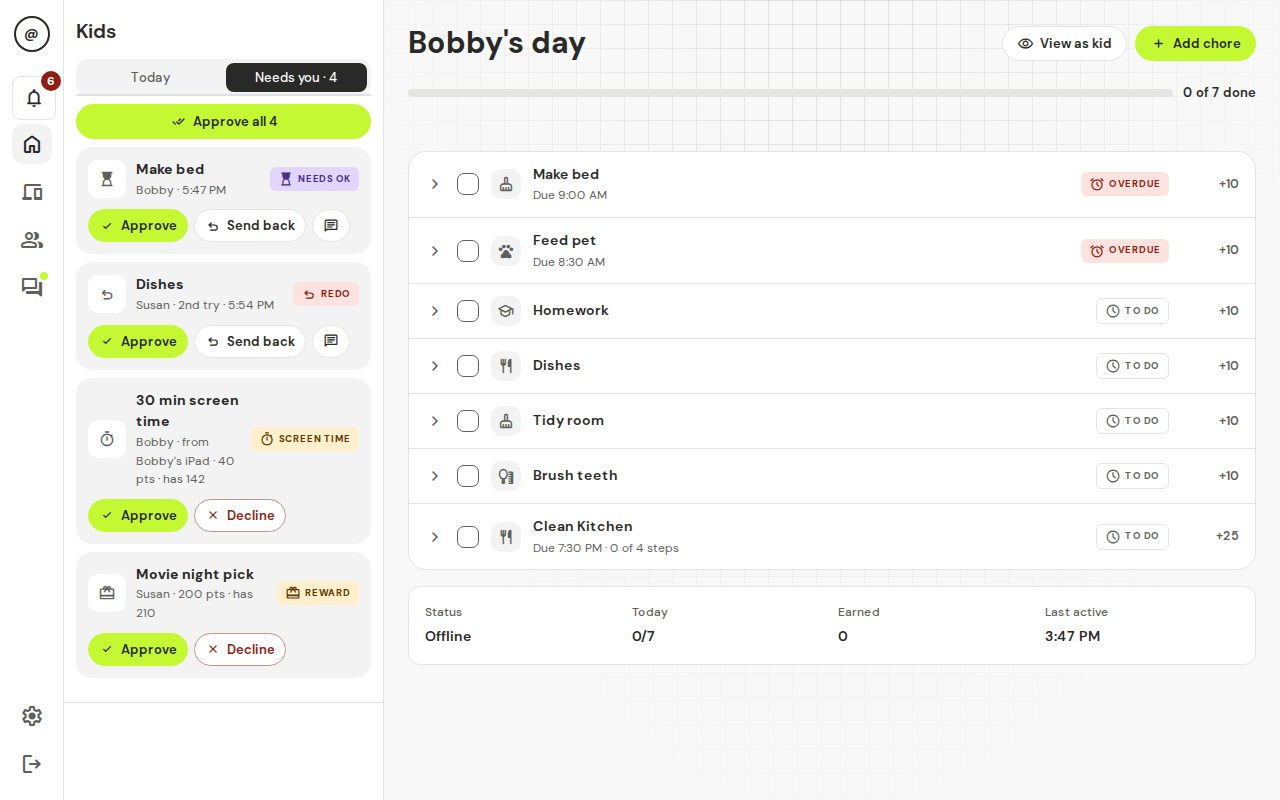
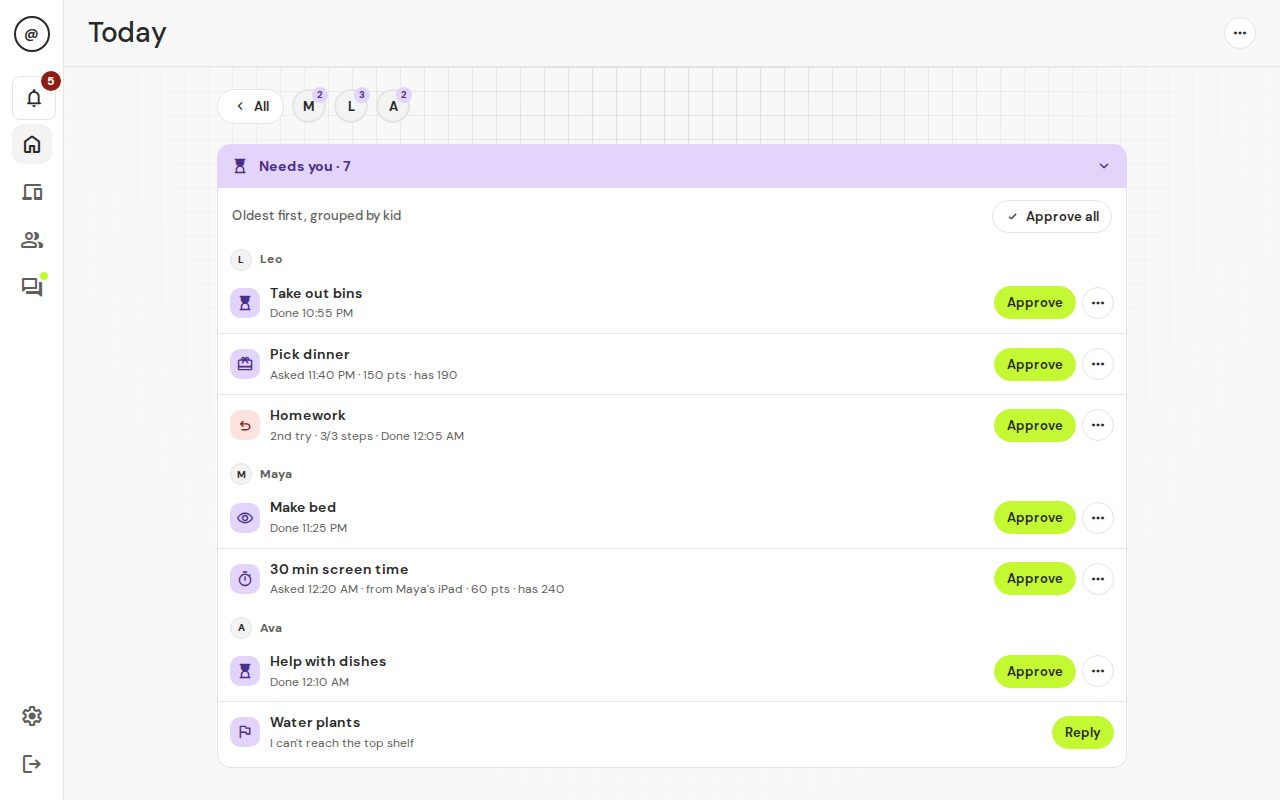
docs(guide): calm parent screens, new screenshots
Claude-Session: https://claude.ai/code/session_011K7jrVbDK9XkJbLGVTb23M

diff --git a/site/index.html b/site/index.html
@@ -38,8 +38,8 @@
           </div>
         </div>
         <figure class="hero-shots">
-          <img class="shot-desk" src="img/today-hero.jpg" width="1280" height="800" alt="The parent Today screen: Bobby's chores with overdue and to-do chips, and a card for each kid.">
-          <img class="shot-phone" src="img/today-parent.jpg" width="600" height="1298" alt="The parent Today screen on a phone." loading="lazy">
+          <img class="shot-desk" src="img/today-hero.jpg" width="1280" height="800" alt="The calm parent Today screen: a Needs you bar, one card for each kid with points and what is waiting, and a Devices line.">
+          <img class="shot-phone" src="img/today-parent.jpg" width="600" height="1298" alt="The calm parent Today screen on a phone: a Needs you bar and a card for each kid." loading="lazy">
           <figcaption class="p-sub">A real family's chores and approvals, in the app.</figcaption>
         </figure>
       </section>
@@ -95,11 +95,11 @@
         </div>
         <div class="shots">
           <figure class="f-card shot shot-dup">
-            <img src="img/today-parent.jpg" width="600" height="1298" loading="lazy" alt="The parent Today screen on a phone: a row of kids, progress, points, streak and the chore list.">
+            <img src="img/today-parent.jpg" width="600" height="1298" loading="lazy" alt="The calm parent Today screen on a phone: a Needs you bar, then a card for each kid with progress, points and what is waiting.">
             <figcaption><h3>Today</h3><p>See each kid's day at a glance: what's done, what's waiting and what's overdue.</p></figcaption>
           </figure>
           <figure class="f-card shot">
-            <img src="img/needs-you.jpg" width="600" height="1298" loading="lazy" alt="The Needs you tab on a phone: a chore to approve, a redo, a screen time request and a reward request, each with Approve.">
+            <img src="img/needs-you.jpg" width="600" height="1298" loading="lazy" alt="Needs you on a phone, grouped by kid: chores, a redo, a screen time request and a reward request, each with one Approve button and a menu for the rest.">
             <figcaption><h3>Needs you</h3><p>One list for everything waiting: chores, redos, screen time and reward requests. Approve them one by one or all at once.</p></figcaption>
           </figure>
         </div>

diff --git a/docs/guide/04-everyday-use.md b/docs/guide/04-everyday-use.md
@@ -11,17 +11,21 @@ A dot on **Chat** means there are unread messages.
 
 This is the page you will use most.
 
-![Today on a computer: kid cards on the left, the chosen kid's day on the right](img/today.jpg)
+![Today on a computer: Needs you, a card for each kid and Devices](img/today.jpg)
 
-Pick a kid to see their day: how many chores are done, their points, streak, next reward and when their devices lock. Each chore has a chip: **To do**, **Overdue**, **Needs OK**, **Redo**, **Approved** or **Skipped**. Tap a chore to open it. There you can approve it, send it back, mark it done yourself, open its chat or take points away (**Deduct points**).
+Today starts calm: a **Needs you** bar when something is waiting, one card for each kid, and a **Devices** line. Nothing else is on screen until you ask for it. A Happy Hour that is running shows as a small chip at the top. To start one, tap the **…** at the top right of Today and choose **Start Happy Hour** (see [Happy Hour](#happy-hour)).
+
+![One kid's day: chores on the left, requests on the right](img/today-kid.jpg)
+
+Tap a kid to see their day: how many chores are done, their points, streak and their chores. Tap **All** to go back. Each chore has a chip: **To do**, **Overdue**, **Needs OK**, **Redo**, **Approved** or **Skipped**. Tap a chore to open it. There you can approve it, send it back, mark it done yourself, open its chat or take points away (**Deduct points**).
 
 **View as kid** shows you exactly what that kid sees. **Add chore** makes a new chore for them.
 
 ## Needs you
 
-**Needs you** is the list of everything waiting for your decision, from all kids. On a phone it is the second tab at the top of Today. On a computer it is the second tab above the kid cards.
+**Needs you** is the list of everything waiting for your decision, from all kids. Tap the **Needs you** bar at the top of Today to open it. It is grouped by kid, oldest first. Each row has one main button, like **Approve**. The less common answers (**Send back**, **Decline**, **Reply**) are in the row's **…** menu.
 
-![The Needs you list: a chore, a redo, a screen time request and a reward request](img/needs-you.jpg)
+![The Needs you list, grouped by kid: chores, a redo, a screen time request, a reward request and a note](img/needs-you.jpg)
 
 - **Needs OK**: a kid says a chore is done.
 - **Redo**: a chore you sent back, done again ("2nd try").
@@ -37,7 +41,7 @@ A chore a kid finished stays here until you answer it, even after the daily rese
 ### Approve a chore or send it back
 
 1. Find the chore in **Needs you**. If the kid added a photo, tap it to see it larger.
-2. Tap **Approve**, or tap **Send back**.
+2. Tap **Approve**, or tap the row's **…** and choose **Send back**.
 3. If you send it back, type a short note, like "The sink still has dishes." You can't send it back without a note.
 
 You should see: for Approve, the item disappears and the kid gets their points (and the internet, if that was their last chore). For Send back, the kid sees your note and does the chore again.
@@ -46,13 +50,13 @@ Points come to the kid when you approve, not before. If a kid finishes early, th
 
 ### Answer a screen time or reward request
 
-Tap **Approve** or **Decline**. The points are only taken when you approve. A declined or ignored request costs nothing.
+Tap **Approve**, or tap the row's **…** and choose **Decline**. The points are only taken when you approve. A declined or ignored request costs nothing.
 
 You should see: the item leaves the list. The kid is told what you decided.
 
 ## The bell
 
-The bell shows what happened: chores to approve, kid notes, requests, new devices (not during setup), badges and level-ups, and security alerts such as a device that "got around the lock", "may be a different device", a "tried a VPN" workaround, or someone guessing a parent's password. Use the **All**, **Needs you** and **Alerts** tabs to filter. You can approve or send back right from the bell. Tap an item to go straight to it. **Mark all read** clears the count.
+The bell shows what happened: chores to approve, kid notes, requests, new devices (not during setup), badges and level-ups, and security alerts such as a device that "got around the lock", "may be a different device", a "tried a VPN" workaround, or someone guessing a parent's password. Use the **All**, **Needs you** and **Alerts** tabs to filter. You can approve right from the bell. Each row has one main button, and **Send back**, **Decline** and **Dismiss** are in its **…** menu. Tap an item to go straight to it. **Mark all read** clears the count.
 
 On a phone the bell opens as a sheet from the bottom of the screen.
 
@@ -62,15 +66,17 @@ On a phone the bell opens as a sheet from the bottom of the screen.
 
 ### Make a chore once, use it many times
 
+A chore is a few short rows. Open a row to change it.
+
 1. Tap **Kids & chores**, then **Chores**, then **New chore**.
-2. Type a **Chore name** and the number of **Points**. Pick a type, like Kitchen or Schoolwork.
-3. Add **steps** if you like (for example "Rinse", "Load", "Wipe"). Each step can have its own due time. Tap **Any order** under a step to make it **Must be done after the step above**. The kid can't say a chore is done until every step is ticked.
-4. Turn on **Needs a photo** if the kid must show proof. Turn on **Always check** if you always want to look at this chore yourself, even for a kid in trust mode.
+2. In **Basics**, type a **Chore name** and the number of **Points**. Pick a type, like Kitchen or Schoolwork.
+3. In **Steps**, add steps if you like (for example "Rinse", "Load", "Wipe"). Each step can have its own due time. Tap **Any order** under a step to make it **Must be done after the step above**. The kid can't say a chore is done until every step is ticked.
+4. In **Options**, turn on **Needs a photo** if the kid must show proof. Turn on **Always check** if you always want to look at this chore yourself, even for a kid in trust mode. **Due by** is here too.
 5. Tap **Save chore**.
 
 You should see: "Added. Now choose who does it."
 
-Now, under **Who & when**:
+Now, in **Who & when**:
 
 1. Pick who does it (one or more kids).
 2. If you picked several kids, choose how it works:
@@ -78,8 +84,7 @@ Now, under **Who & when**:
    - **First one wins**: one chore for everyone. The first kid to finish it gets the points.
    - **Team effort**: one chore for everyone. Any kid can tick it, and the points are split evenly.
 3. Choose **Repeat**: **Every day**, **Some days** (pick the days) or **One time** (pick the date).
-4. Optionally set **Due by**.
-5. Tap **Save chore**.
+4. Tap **Save chore**.
 
 You should see: the chore in the list with the kids' avatars. It appears on Today at your daily reset time (6:00 am unless you changed it in **Settings → Family**).
 
@@ -87,9 +92,9 @@ If you change a chore's name, points or steps, the change shows up everywhere, i
 
 ### Kids
 
-Open a kid to see their devices, chores and points history. The buttons at the top:
+Open a kid to see a short page: their points, level and a few rows (**Trust**, **Devices**, **Chores**, **Settings**). Open a row to see more. Tap the **points chip** to see their points history. The buttons at the top:
 
-- **Start Happy Hour**, **Edit** and a **More** (three dots) menu.
+- **Edit** and a **More** (three dots) menu. Happy Hour now starts from the **…** on Today.
 - **Edit**: change their name, avatar, PIN or **Age group** (Little, Kid or Teen).
 - **More** holds **Bonus** (give 1 to 500 points with a short note; they get a celebration), **Deduct** (take points away, with a reason the kid can see) and, on a phone, **View as kid**. On a computer **View as kid** is its own button.
 
@@ -100,7 +105,7 @@ Open **Kids & chores → Rewards**. It has four parts:
 - **Requests**: what kids are asking for.
 - **Catalogue**: tap **New reward** for things kids can save up for, with a price in points and an icon. Turn off **Needs approval** if a kid can just take it (the points come off right away and you get a ping). Turn off **Kids can see it** to hide it for now.
 - **Screen time**: lets kids spend points on extra internet time. It is on for new families (**Kids can buy extra minutes**), and every purchase still needs your OK. The price starts at 20 points for 15 minutes. Turn the switch off and the price, **Max per day**, **Save unused time**, **Save up to**, **Approve automatically** and **Only during allowed hours** settings are hidden until you turn it on again; what you saved is kept. Bought minutes never work during off hours like bedtime.
-- **History**: the last 30 days.
+- **History**: the last 30 days. A chip at the top shows the totals. Pick a kid to filter, and switch between **All**, **Rewards** and **Screen time**. **Export CSV** is the button in the header.
 
 A kid sees a progress bar toward each reward and can ask when they have enough.
 
@@ -140,12 +145,12 @@ When a kid finishes a chore, a comic-book moment pops up on their screen: a rand
 ![A celebration on a kid's phone: a cowboy dog, a coin burst and the word YEEHAW](img/celebrate.jpg)
 
 - **Levels** are **Full**, **Small** and **Off**, or **Mode default** (which means Small for teens, Full for the others).
-- Set the level for each kid on the kid's page, under **Celebrations**. **Preview a celebration** plays one so you can see it.
+- Set the level for each kid on the kid's page, in the **Settings** row, under **Celebrations**. **Preview a celebration** plays one so you can see it.
 - Phones and tablets set to reduce motion get a still badge instead.
 
 ### Happy Hour
 
-A Happy Hour gives bonus points for a little while. Tap **Start Happy Hour** on **Today** or on a kid's page. Pick 30, 60 or 90 minutes and **×1.5**, **×2** or **×3**, for all kids or only the kids you choose.
+A Happy Hour gives bonus points for a little while. Tap the **…** at the top right of **Today** and choose **Start Happy Hour**. Pick 30, 60 or 90 minutes and **×1.5**, **×2** or **×3**, for all kids or only the kids you choose.
 
 ![The Start Happy Hour sheet: length, multiplier and kids](img/happy-hour-start.jpg)
 
@@ -222,9 +227,9 @@ Every Sunday at 7:30 PM you get "Your week at (your family)" in your inbox, plus
 ### Where the settings live
 
 - **Kids & chores → the kid → Trust mode**, and **Always check** on each chore.
-- **Settings → Family → Extras**: **Bedtime auto-approve** (with its time) and **Weekly recap**.
+- **Settings → Family → Bedtime & recap**: **Bedtime auto-approve** (with its time) and **Weekly recap**.
 
-![The Extras card in Settings](img/extras.jpg)
+![Bedtime & recap in Settings → Family](img/extras.jpg)
 
 ### "Try this" cards
 
@@ -234,7 +239,7 @@ Two more cards on **Today**: one offers trust mode for a kid after 10 approved c
 
 ![The Devices page with one device open](img/devices.jpg)
 
-**Devices** lists every device the box has seen, grouped by owner: **Who's this?** (new devices), one group for each kid, **Shared**, **Guests** and **No owner**. New devices stay online until you give them an owner. To pause them until you do, turn on **Block new devices until I assign them** in **Settings → Family**.
+**Devices** lists every device the box has seen, grouped by owner: **Who's this?** (new devices), one group for each kid, **Shared**, **Guests** and **No owner**. New devices stay online until you give them an owner. To pause them until you do, open the **Home network** row at the top of the Devices list and turn on **Block new devices until I assign them**. That row also shows the **Home box** status (Healthy or Offline). It used to be under Settings → Family.
 
 Tap a device to open it:
 
@@ -319,7 +324,7 @@ t@sk4ce can send pings to the apps your family already uses, like a Signal group
 
 You should see: a test message in that app.
 
-During **Quiet hours** other pings wait: chores to approve, notes, requests and new devices are sent together when quiet hours end. Security alerts (a device getting around the lock, a different-looking device, password guessing, the box going offline) still send unless you turn off **Security alerts still send**. That switch only shows once quiet hours are on. Pings link back to your box by itself; if the link is wrong, open **Advanced** and set **App address** to the address you open t@sk4ce with.
+During **Quiet hours** other pings wait: chores to approve, notes, requests and new devices are sent together when quiet hours end. Security alerts (a device getting around the lock, a different-looking device, password guessing, the box going offline) still send unless you turn off **Security alerts still send**. That switch only shows once quiet hours are on. Pings link back to your box by itself; if the link is wrong, open **When and how** and set **App address** to the address you open t@sk4ce with.
 
 These pings leave your home: they go to the service you chose.
 

diff --git a/docs/guide/img/SHOTS.md b/docs/guide/img/SHOTS.md
@@ -6,14 +6,14 @@ Taken with Playwright from a demo family (kids Bobby and Susan), read-only: ever
 
 | File | Screen and state |
 |---|---|
-| `today.jpg` | Parent **Today**, desktop, Bobby's day with overdue and to-do chores. |
-| `today-kid.jpg` | Parent **Today** on a kid with nothing done yet (Susan, 0 of 7). |
-| `needs-you.jpg` | Parent **Today**, desktop, **Needs you** tab. The demo had nothing waiting, so four sample requests were injected into the `/today` response. |
+| `today.jpg` | Parent **Today**, desktop, calm view: Needs you bar, a card per kid, Devices line. |
+| `today-kid.jpg` | Parent **Today** with one kid open (Maya): chores and requests. |
+| `needs-you.jpg` | Parent **Today**, desktop, **Needs you** open, grouped by kid (mocked API). |
 | `setup-account.jpg` | Setup wizard step 1 "Make your parent account", with the step list visible. |
 | `setup-family.jpg` | Setup wizard step 2 "Your family" (step 1 filled in locally; nothing is sent before step 2's Next). |
 | `setup-hours.jpg` | Setup wizard step 7 "When can devices be online?" with the new starting schedule (07:00–20:00 Sun–Thu, 08:00–22:00 Fri–Sat). Retaken 2026-11-06 for 2.4.0; 1280×900 capture cropped to 1280×740 from the top. |
-| `setup-devices.jpg` | Setup wizard step 6 "Whose devices are these?", devices assigned to kid chips and Guest. |
-| `devices.jpg` | **Devices** page with one device open (owners, right now, lock and test block buttons). |
+| `setup-devices.jpg` | Setup wizard step 6 "Whose devices are these?": **Need an owner** open with the **Owner** pop-over. |
+| `devices.jpg` | **Devices** page with one device open; the **Home network** row is at the top of the list. |
 | `chat.jpg` | **Chat** on a chore thread with a kid note ("Need help"). |
 | `kid-today.jpg` | Kid page (phone): internet paused, chore cards with points and due chips. |
 | `kid-chore.jpg` | Kid page: one chore opened with chained steps, "I'm done!" held back. |
@@ -25,12 +25,25 @@ Taken with Playwright from a demo family (kids Bobby and Susan), read-only: ever
 | `kid-screen-for.jpg` | Kid **Rewards** (phone): **What for?** picker with Consoles selected. Mocked API. |
 | `celebrate.jpg` | Kid page (phone): a cowboy-dog celebration with coins and "YEEHAW!". Excitement pack 2.6.0. |
 | `happy-hour-kid.jpg` | Kid page (phone): Happy Hour banner with countdown and doubled chore points. |
-| `happy-hour-start.jpg` | Parent **Today** (phone): the **Start Happy Hour** sheet (60 min, ×2, all kids). |
+| `happy-hour-start.jpg` | Parent **Today** (phone): the **Start Happy Hour** sheet, opened from the Today **…** menu (60 min, ×2, all kids). |
 | `trust-kid.jpg` | Kid page (phone): **Trust mode** card, Trusted level, and **Approved on their own** with **Wasn't done**. Less parent work 2.7.0. |
 | `wasnt-done.jpg` | Kid page (phone): the **Wasn't done?** sheet with **Also lower trust level** ticked. |
 | `setup-extras.jpg` | Setup wizard step 8 "Optional extras" (phone): trust mode per kid and bedtime auto-approve, all off. |
-| `extras.jpg` | **Settings → Family** (phone): the **Extras** card with bedtime auto-approve on. Retaken 2026-11-07 (renamed from `less-tapping.jpg`) from a mocked API. |
+| `extras.jpg` | **Settings → Family** (phone): the **Bedtime & recap** row open. |
 | `recap.jpg` | **Your week** (phone): **Worth a look** list and the **This week** card. |
 | `kid-trust-chip.jpg` | Kid **Me** (phone, Little look): the Proven level chip and its friendly line. |
 
 Retaken 2026-11-07 after the polish passes: `trust-kid.jpg`, `wasnt-done.jpg`, `extras.jpg`, `recap.jpg`. These four came from a mocked API (Playwright `page.route`, parent logged in with a fake token), phone 390x844 at 2x, light, viewport only, resized to 600 px wide, JPEG quality 82. The real-backend shot process was not used.
+
+Retaken 2026-11-08 for 2.8.0 declutter, mocked API (`scripts/shots/declutter`, light, 1280x800 desktop or 390x844 phone at 2x resized to 600 wide, JPEG quality 82):
+- `today.jpg`: Retaken 2026-11-08 for 2.8.0 declutter, mocked API
+- `today-kid.jpg`: Retaken 2026-11-08 for 2.8.0 declutter, mocked API
+- `needs-you.jpg`: Retaken 2026-11-08 for 2.8.0 declutter, mocked API
+- `setup-devices.jpg`: Retaken 2026-11-08 for 2.8.0 declutter, mocked API
+- `devices.jpg`: Retaken 2026-11-08 for 2.8.0 declutter, mocked API
+- `group-price.jpg`: Retaken 2026-11-08 for 2.8.0 declutter, mocked API
+- `trust-kid.jpg`: Retaken 2026-11-08 for 2.8.0 declutter, mocked API
+- `wasnt-done.jpg`: Retaken 2026-11-08 for 2.8.0 declutter, mocked API
+- `extras.jpg`: Retaken 2026-11-08 for 2.8.0 declutter, mocked API
+- `happy-hour-start.jpg`: Retaken 2026-11-08 for 2.8.0 declutter, mocked API
+- `site/img/today-hero.jpg`, `today-parent.jpg`, `needs-you.jpg`: Retaken 2026-11-08 for 2.8.0 declutter, mocked API

diff --git a/docs/guide/03-first-setup.md b/docs/guide/03-first-setup.md
@@ -28,9 +28,9 @@ You should see: step 3, "Add your kids".
 
 ## Step 3. Kids
 
-For each kid: type their name, pick an avatar, and optionally set a 4-digit PIN. A PIN lets a kid prove it's them on a shared device. Tap **Add kid**. Add everyone, then tap **Next**.
+For each kid: type their name, tap the avatar button to pick an avatar from a small pop-over, and optionally set a 4-digit PIN. A PIN lets a kid prove it's them on a shared device. Tap **Add kid**. Add everyone, then tap **Next**.
 
-You should see: each kid in the list, marked "Added".
+You should see: each kid on one line at the top, marked "Added", with the form below ready for the next kid.
 
 Every kid starts with the **Kid (9–12)** look. You can switch a kid to **Little (5–8)** or **Teen (13+)** later, in **Kids & chores**. See [For kids](05-for-kids.md).
 
@@ -54,11 +54,11 @@ You should see: a tick on each chore you picked, and "4 picked" (or however many
 
 The page asks "Whose devices are these?" Devices show up here once the home box sees them on your Wi-Fi. This can take a minute or two. Ask each kid to unlock their phone, tablet or console and open a web page.
 
-For each device, tap the kid who owns it. A shared device can have more than one owner. Tap **Guest** for devices that should never be blocked, like a visitor's phone or the family TV.
+The page shows a short list: **Need an owner** and **Done**. Open **Need an owner**. For each device, tap **Owner** and pick the kid. A shared device can have more than one owner. Pick **Guest (never blocked)** for devices that should never be blocked, like a visitor's phone or the family TV, or **Not sure yet** to decide later.
 
 ![Choosing who owns each device](img/setup-devices.jpg)
 
-You should see: the kid's name highlighted on each device. Devices you skip wait under **Who's this?** on the **Devices** page, and you can finish there later.
+You should see: the kid's name on each device, and **Need an owner** getting shorter. Devices you skip wait under **Who's this?** on the **Devices** page, and you can finish there later.
 
 Not seeing a device? iPhones and iPads use a "Private Wi-Fi Address". Turn it off for your home Wi-Fi in the device's Wi-Fi settings. If nothing shows up after a few minutes, skip this step and see [Troubleshooting](06-troubleshooting.md).
 
@@ -99,9 +99,9 @@ You can put t@sk4ce on your own phone like an app. This works once your box has 
 - **iPhone:** open it in Safari, tap the Share button at the bottom of the screen, then tap **Add to Home Screen**, then **Add**.
 - **Android:** open it in Chrome, tap the menu (three dots), then tap **Add to Home screen** or **Install app**.
 
-![Today for one kid: seven chores, none done yet](img/today-kid.jpg)
+![Today for one kid: their chores and requests](img/today-kid.jpg)
 
-On a computer, Today shows a card for each kid on the left and the chosen kid's day on the right. On a phone, the kids are a row of avatars at the top.
+Today shows a card for each kid. Tap a kid to see their day, and tap **All** to go back. A **Needs you** bar appears when something is waiting.
 
 ## Test that pausing works
 

diff --git a/docs/guide/06-troubleshooting.md b/docs/guide/06-troubleshooting.md
@@ -6,6 +6,18 @@ Commands on this page are typed in the Terminal on the home box (see [Install](0
 
 If a command says "permission denied" for Docker, put `sudo` in front of it. If it says "no configuration file provided" or "no such file", you are not in the `task4ce` folder.
 
+## I can't find a setting
+
+Screens now show less at first, and open a row for more. Where things moved:
+
+- **Points history** for a kid: tap the points chip at the top of the kid's page.
+- **Block new devices** and the **Home box** status: **Devices**, the **Home network** row at the top of the list (no longer in Settings → Family).
+- **Bedtime auto-approve** and **Weekly recap**: **Settings → Family → Bedtime & recap** (the old Extras card).
+- **Start Happy Hour**: the **…** at the top right of **Today**.
+- **Send back**, **Decline** and **Dismiss**: the **…** on a row in Needs you or the bell.
+- **Export CSV** of rewards: the button in the header of **Kids & chores → Rewards → History**.
+- Quiet hours, and the rest of how pings arrive: **Settings → Notifications → When and how**.
+
 ## The app says "Home box offline"
 
 A red message at the top says **Home box offline** and "It went quiet at ...". It means the app has not heard from the box for a minute or two.
@@ -28,7 +40,7 @@ The most common cause is a wrong network name in the `.env` file. Type `ip route
 
 Work through these in order:
 
-1. Is the device **assigned** to a kid? Guests are never paused. New devices are paused only if **Block new devices until I assign them** is on in **Settings → Family**.
+1. Is the device **assigned** to a kid? Guests are never paused. New devices are paused only if **Block new devices until I assign them** is on (**Devices → Home network**).
 2. Are all that kid's chores approved for today? If yes, the internet is on. If the kid has no chores today, it is also on.
 3. Is **Lock until today's chores are done** off in **Settings → Hours**? Then only the hours count. Is it inside a **Free time** window?
 4. Open the device. Is **Always allowed (never lock)** on? Do you see **Back to schedule**? That means someone unlocked it by hand: tap **Back to schedule**.

diff --git a/docs/guide/07-faq.md b/docs/guide/07-faq.md
@@ -24,7 +24,7 @@ It stays in your home, on the home box. There are no accounts with us, no ads an
 A determined kid can. t@sk4ce is built to stop normal use and to tell you when someone is dodging it. It is not a lock.
 
 - Mobile data and phone hotspots aren't covered. It only works on your home Wi-Fi.
-- A new, unregistered device can be used instead, unless you turn on "Block new devices" in Settings (it is off at first).
+- A new, unregistered device can be used instead, unless you turn on "Block new devices" in **Devices → Home network** (it is off at first).
 - A kid who tries a VPN, a proxy site or Tor on a paused device is still blocked, and you get a "Tried a workaround" alert. A VPN app that goes straight to a number address is blocked but not noticed.
 - A kid who changes their device's network settings is usually still stopped, and you get an alert when something gets through.
 

diff --git a/site/img/README.md b/site/img/README.md
@@ -4,7 +4,7 @@ Used by the landing page (`site/index.html`). JPEG, at most 1400 px wide, under 
 
 - `today-hero.jpg` — parent Today, desktop (hero)
 - `today-parent.jpg` — parent Today, phone
-- `needs-you.jpg` — parent Today on a phone, **Needs you** tab (four sample requests injected into the /today response)
+- `needs-you.jpg` — parent Today on a phone, **Needs you** open (mocked API)
 - `kid-home.jpg` — kid chores, phone
 - `kid-locker.jpg` — kid Customize (Locker), phone
 
